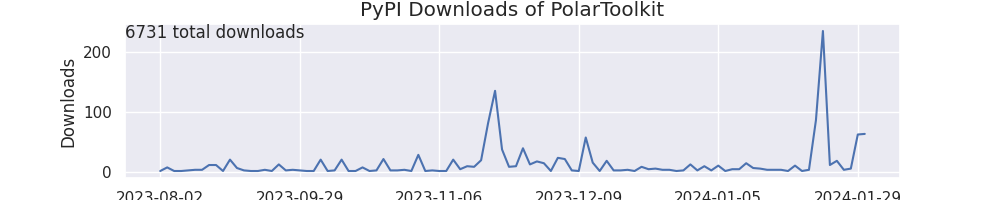
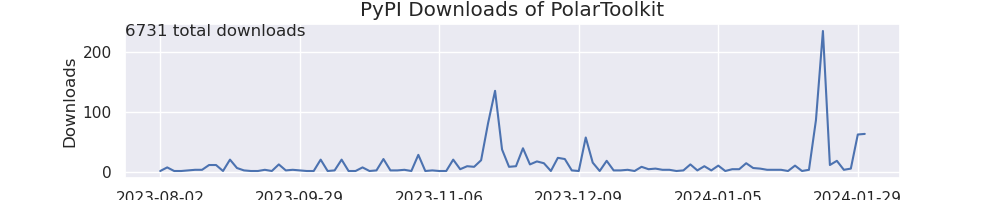
style: fix style errors

diff --git a/docs/tracking/stats.py b/docs/tracking/stats.py
@@ -14,28 +14,28 @@ Adapted from the package icepyx: https://github.com/icesat2py/icepyx
 https://github.com/icesat2py/icepyx/blob/6c187bd35358d88083a5163d3491118aa1aad45c/doc/source/tracking/pypistats/get_pypi_stats.py
 """
 
-import os
-import pypistats
-import pandas as pd
-import seaborn as sns
+import pathlib
+
 import matplotlib.pyplot as plt
+import pandas as pd
+import pypistats
+import seaborn as sns
+
 sns.set_theme()
 
-cwd = os.getcwd()
+cwd = pathlib.Path.cwd()
 
 trackpath = f"{cwd}/docs/tracking/"
 downloadfn = "downloads_data.csv"
 sysdownloadfn = "sys_downloads_data.csv"
 
 antarctic_plots_downloads = pypistats.overall(
-    "antarctic_plots",
-    total=True,
-    format="pandas").drop(columns=["percent"])
+    "antarctic_plots", total=True, format="pandas"
+).drop(columns=["percent"])
 
 polartoolkit_downloads = pypistats.overall(
-    "polartoolkit",
-    total=True,
-    format="pandas").drop(columns=["percent"])
+    "polartoolkit", total=True, format="pandas"
+).drop(columns=["percent"])
 
 downloads = pd.concat([antarctic_plots_downloads, polartoolkit_downloads])
 
@@ -47,7 +47,7 @@ try:
     dl_data = downloads.merge(
         exist_downloads, how="outer", on=["category", "date", "downloads"]
     )
-except:
+except NameError:
     dl_data = downloads
 
 total_downloads = dl_data.downloads.sum()
@@ -76,7 +76,10 @@ dl_data = dl_data.groupby("category").get_group("without_mirrors").sort_values("
 
 
 chart = dl_data.plot(
-    x="date", y="downloads", figsize=(10, 2), legend=False,
+    x="date",
+    y="downloads",
+    figsize=(10, 2),
+    legend=False,
 )
 
 chart.set_ylabel("Downloads")
@@ -87,7 +90,7 @@ chart.set_title(
 )
 
 chart.text(
-    0,1, f"{total_downloads} total downloads",
-    va="top", transform=plt.gca().transAxes)
+    0, 1, f"{total_downloads} total downloads", va="top", transform=plt.gca().transAxes
+)
 
 chart.figure.savefig(trackpath + "downloads.png")

diff --git a/docs/tracking/usage_stats.md b/docs/tracking/usage_stats.md
@@ -1,12 +1,15 @@
 ## PyPI Downloads
 
-Non-mirrored downloads of polartoolkit from the `Python Package Index <https://pypi.org/>`_ (e.g. using `pip install polartoolkit`).
+Non-mirrored downloads of polartoolkit from the
+`Python Package Index <https://pypi.org/>`\_ (e.g. using
+`pip install polartoolkit`).
 
 ![Download stats](downloads.png)
 
 ## GitHub Traffic
-The GitHub repository has automatic tracking of cloning and traffic to the repo website, which can be found [here](https://github.com/mdtanker/polartoolkit/graphs/traffic).
 
+The GitHub repository has automatic tracking of cloning and traffic to the repo
+website, which can be found
+[here](https://github.com/mdtanker/polartoolkit/graphs/traffic).
 
 ## Documentation Views
-
